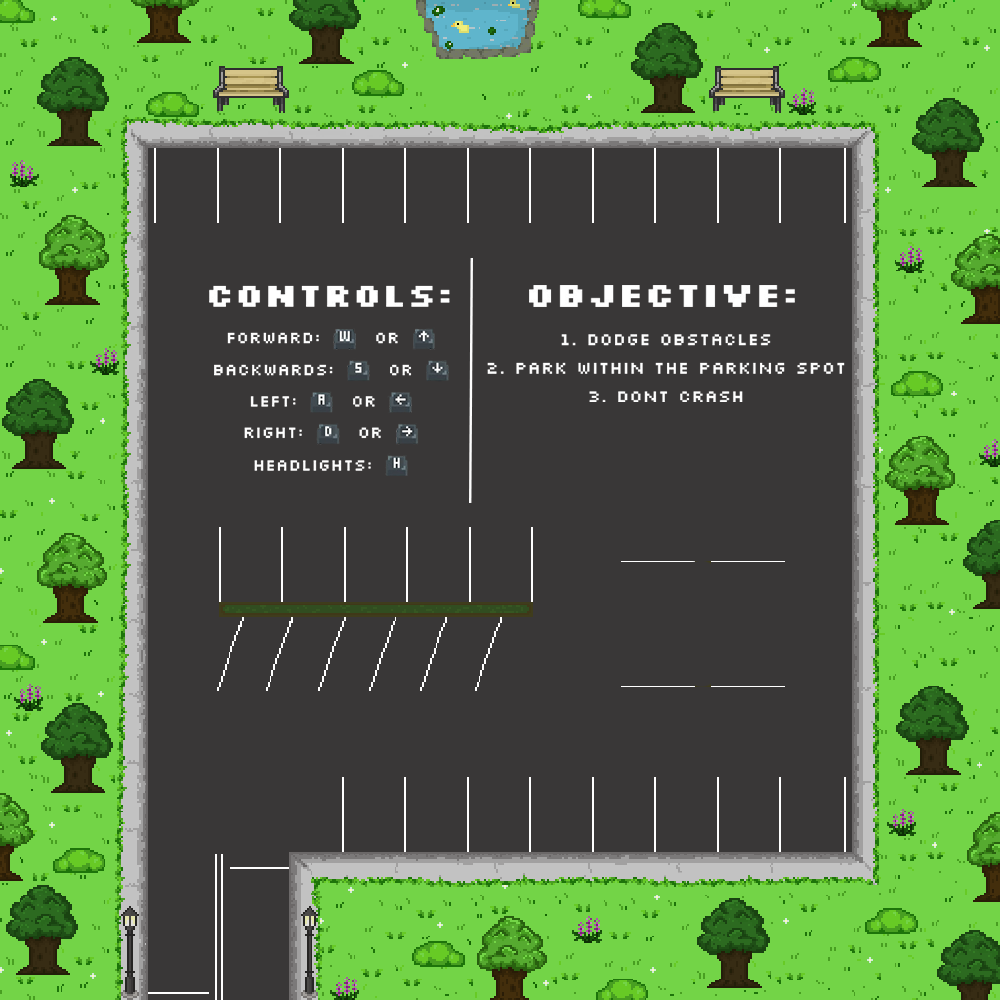
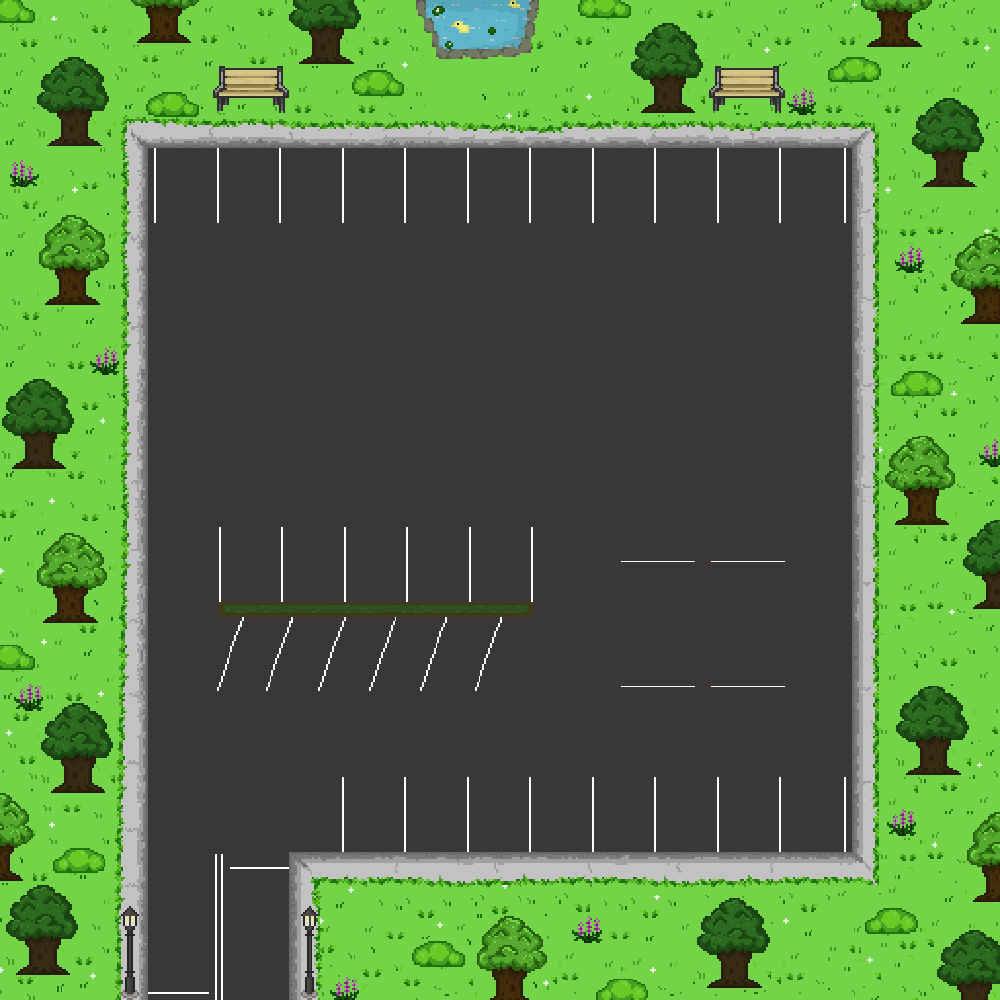
Controls + Objectives are no longer built into bg

Changed region(s): [[0.186, 0.279, 0.496, 0.496], [0.527, 0.279, 0.837, 0.403]]

diff --git a/index.html b/index.html
@@ -120,43 +120,52 @@
             <button id="exit">EXIT</button>
           </div>
 
-        </div>
-      </div>
+          <div id="controls">
+            <h1 id="control-header">Controls:</h1>
+            <p id="control-listing">
+              Forward:
+              <img src="img/keyboard-keys/W-Key.svg" alt="W Key" width="30" /> or
+              <img
+                src="img/keyboard-keys/Up-Arrow.svg"
+                alt="Up Arrow Key"
+                width="30"
+              /><br />
+              Backwards:
+              <img src="img/keyboard-keys/S-Key.svg" alt="S Key" width="30" /> or
+              <img
+                src="img/keyboard-keys/Down-Arrow.svg"
+                alt="Down Arrow Key"
+                width="30"
+              /><br />
+              Left:
+              <img src="img/keyboard-keys/A-Key.svg" alt="A Key" width="30" /> or
+              <img
+                src="img/keyboard-keys/Left-Arrow.svg"
+                alt="Left Arrow Key"
+                width="30"
+              /><br />
+              Right:
+              <img src="img/keyboard-keys/D-Key.svg" alt="D Key" width="30" /> or
+              <img
+                src="img/keyboard-keys/Right-Arrow.svg"
+                alt="Right Arrow Key"
+                width="30"
+              /><br />
+              Headlights:
+              <img src="img/keyboard-keys/H-Key.svg" alt="H Key" width="30" /><br />
+            </p>
+          </div>
 
-      <div id="controls">
-        <h1 id="control-header">Controls:</h1>
-        <p id="control-listing">
-          Forward:
-          <img src="img/keyboard-keys/W-Key.svg" alt="W Key" width="30" /> or
-          <img
-            src="img/keyboard-keys/Up-Arrow.svg"
-            alt="Up Arrow Key"
-            width="30"
-          /><br />
-          Backwards:
-          <img src="img/keyboard-keys/S-Key.svg" alt="S Key" width="30" /> or
-          <img
-            src="img/keyboard-keys/Down-Arrow.svg"
-            alt="Down Arrow Key"
-            width="30"
-          /><br />
-          Left:
-          <img src="img/keyboard-keys/A-Key.svg" alt="A Key" width="30" /> or
-          <img
-            src="img/keyboard-keys/Left-Arrow.svg"
-            alt="Left Arrow Key"
-            width="30"
-          /><br />
-          Right:
-          <img src="img/keyboard-keys/D-Key.svg" alt="D Key" width="30" /> or
-          <img
-            src="img/keyboard-keys/Right-Arrow.svg"
-            alt="Right Arrow Key"
-            width="30"
-          /><br />
-          Headlights:
-          <img src="img/keyboard-keys/H-Key.svg" alt="H Key" width="30" /><br />
-        </p>
+          <div id="objective">
+            <h1 id="objective-header">Objective:</h1>
+            <p id="objective-listing">
+                1. Dodge Obstacles<br />
+                2. Park In the Parking Spot<br />
+                3. Don't Crash!<br />
+            </p>
+        </div>        
+
+        </div>
       </div>
     </div>
   </body>

diff --git a/js/main.js b/js/main.js
@@ -157,6 +157,9 @@ $(function () {
             $("#game-buttons").show();
             $("#lives-counter").show();
 
+            $("#controls").hide();
+            $("#objective").hide();
+
             // Display the game background
             $("#scroll-window").css("background-image", "url(../img/parkinglot.png)");
 
@@ -408,6 +411,10 @@ $(function () {
 
         $("#lives-counter").hide();
         $("#game-buttons").hide();
+
+        $("#controls").show();
+        $("#objective").show();
+
         $(".cone-obstacle, .dumpster-obstacle, .car-obstacle, .game-life").remove();
 
         $("#start-buttons").show();
@@ -436,6 +443,11 @@ $(function () {
 
         $("#lives-counter").hide();
         $("#game-buttons").hide();
+
+        $("#controls").show();
+        $("#objective").show();
+
+
         $(".cone-obstacle, .dumpster-obstacle, .car-obstacle, .game-life").remove();
 
         $("#start-buttons").show();

diff --git a/css/hud.css b/css/hud.css
@@ -43,17 +43,15 @@
 }
 
 #controls {
-    display: none;
     position: fixed;
-    left: 10px;
-    bottom: 10px;
+    top: 260px;
+    left: 175px;
+    height: 250px;
+    width: 250px;
     margin: 0;
-    padding: 10px;
-    background-color: rgba(0, 0, 0, 0.35);
     border-radius: 10px;
     color: #ffffff;
-    font-size: 16px;
-    line-height: 1.6;
+    font-size: 15px;
     transform-origin: left bottom;
     font-family: "Silkscreen", sans-serif;
 }
@@ -76,4 +74,23 @@
     transform: translate(-50%, -50%); 
     z-index: 9999;  
     display: none;
+}
+
+#objective {
+    position: fixed;
+    top: 212px;
+    left: 450px;
+    height: 250px;
+    width: 400px;
+    margin: 0;
+    border-radius: 10px;
+    color: #ffffff;
+    font-size: 17px;
+    transform-origin: left bottom;
+    font-family: "Silkscreen", sans-serif;
+}
+
+#objective img {
+    vertical-align: middle;
+    margin-right: 5px;
 }
